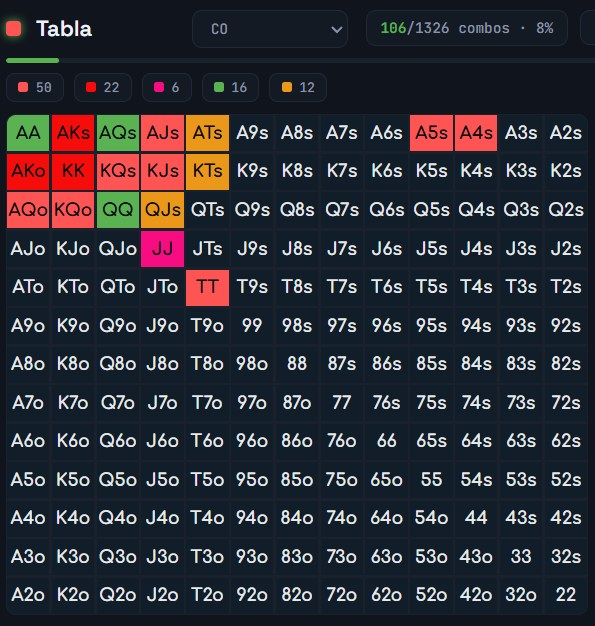
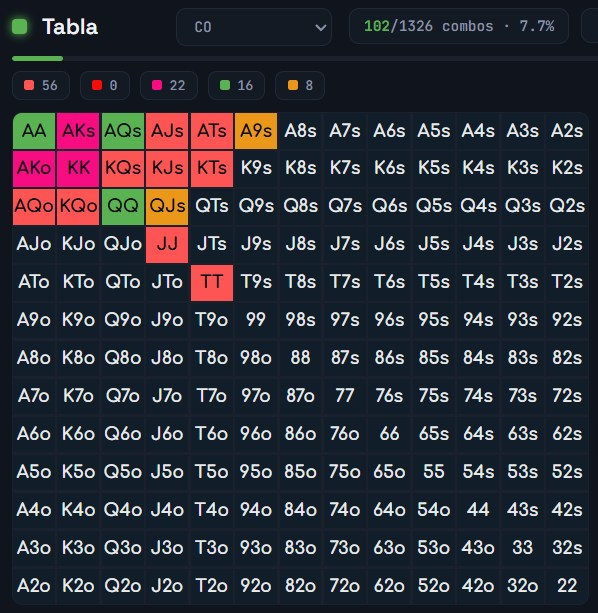
SBvsBB

diff --git a/index.html b/index.html
@@ -22,7 +22,7 @@
             <button class="btnsmall btn" data-img="./resources/OpenRaise/MP.png">MP<br>2</button>
             <button class="btnsmall btn" data-img="./resources/OpenRaise/CO.png">CO<br>2.2</button>
             <button class="btnsmall btn bu-color" data-img="./resources/OpenRaise/BTN.png">BTN<br>2.5</button>
-            <button class="btnsmall btn" data-img="./resources/OpenRaise/SBALL.png">SB<br>3</button>
+            <button class="btnsmall btn" data-img="./resources/OpenRaise/SBvsBB.jpg">SB<br>3</button>
             
             <!--
                 <p class="titleright3">NL25 <br>CO vs BTN</p>  
